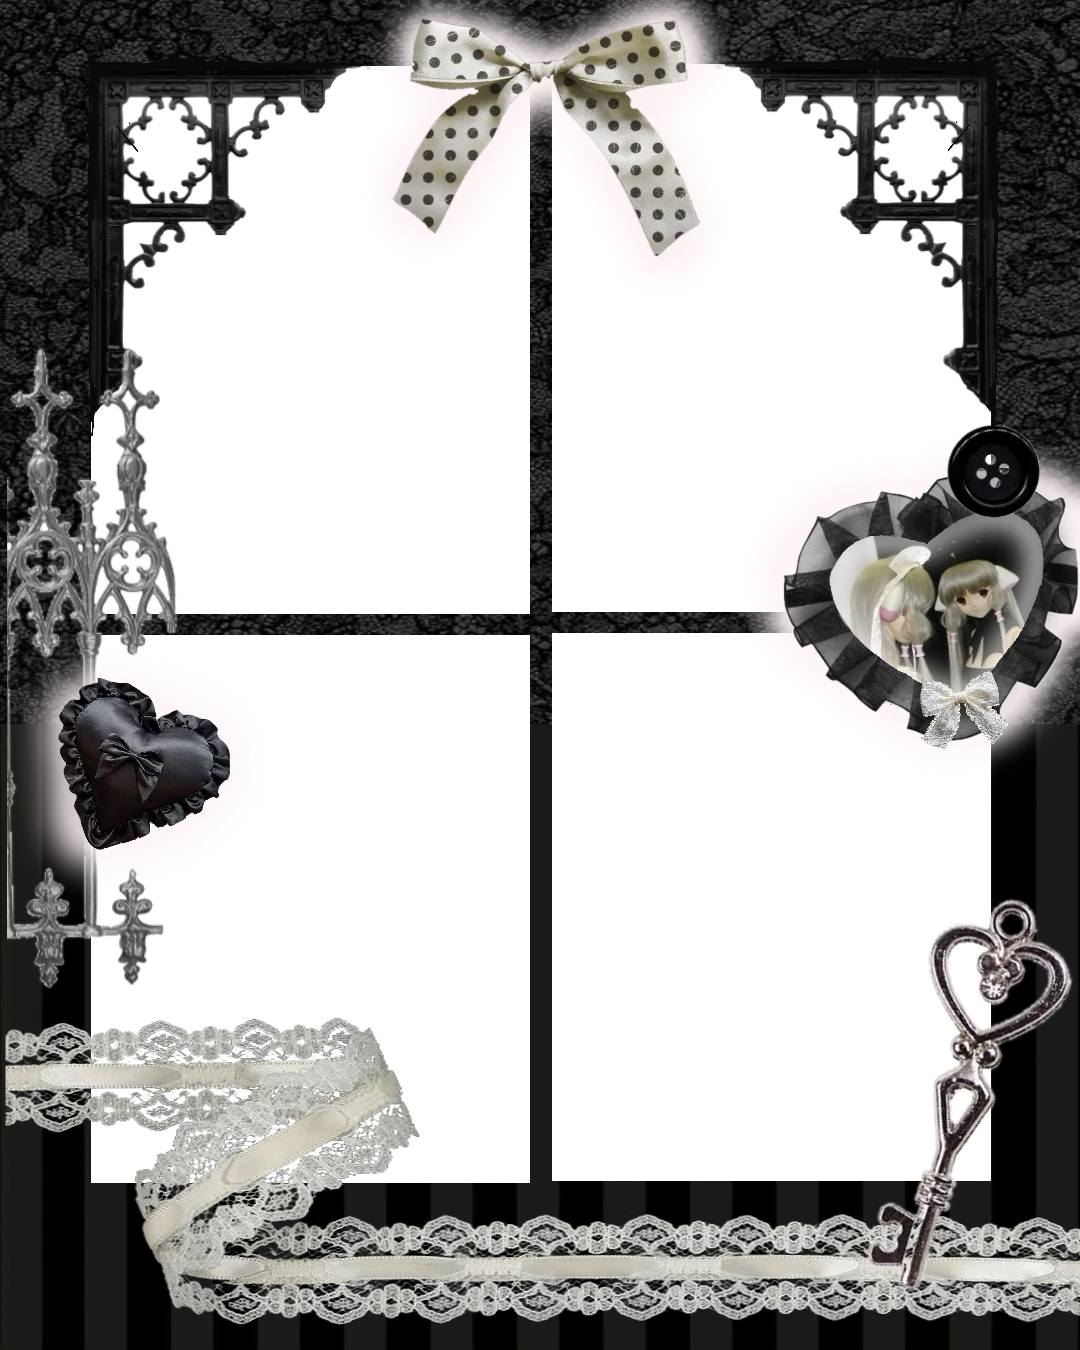
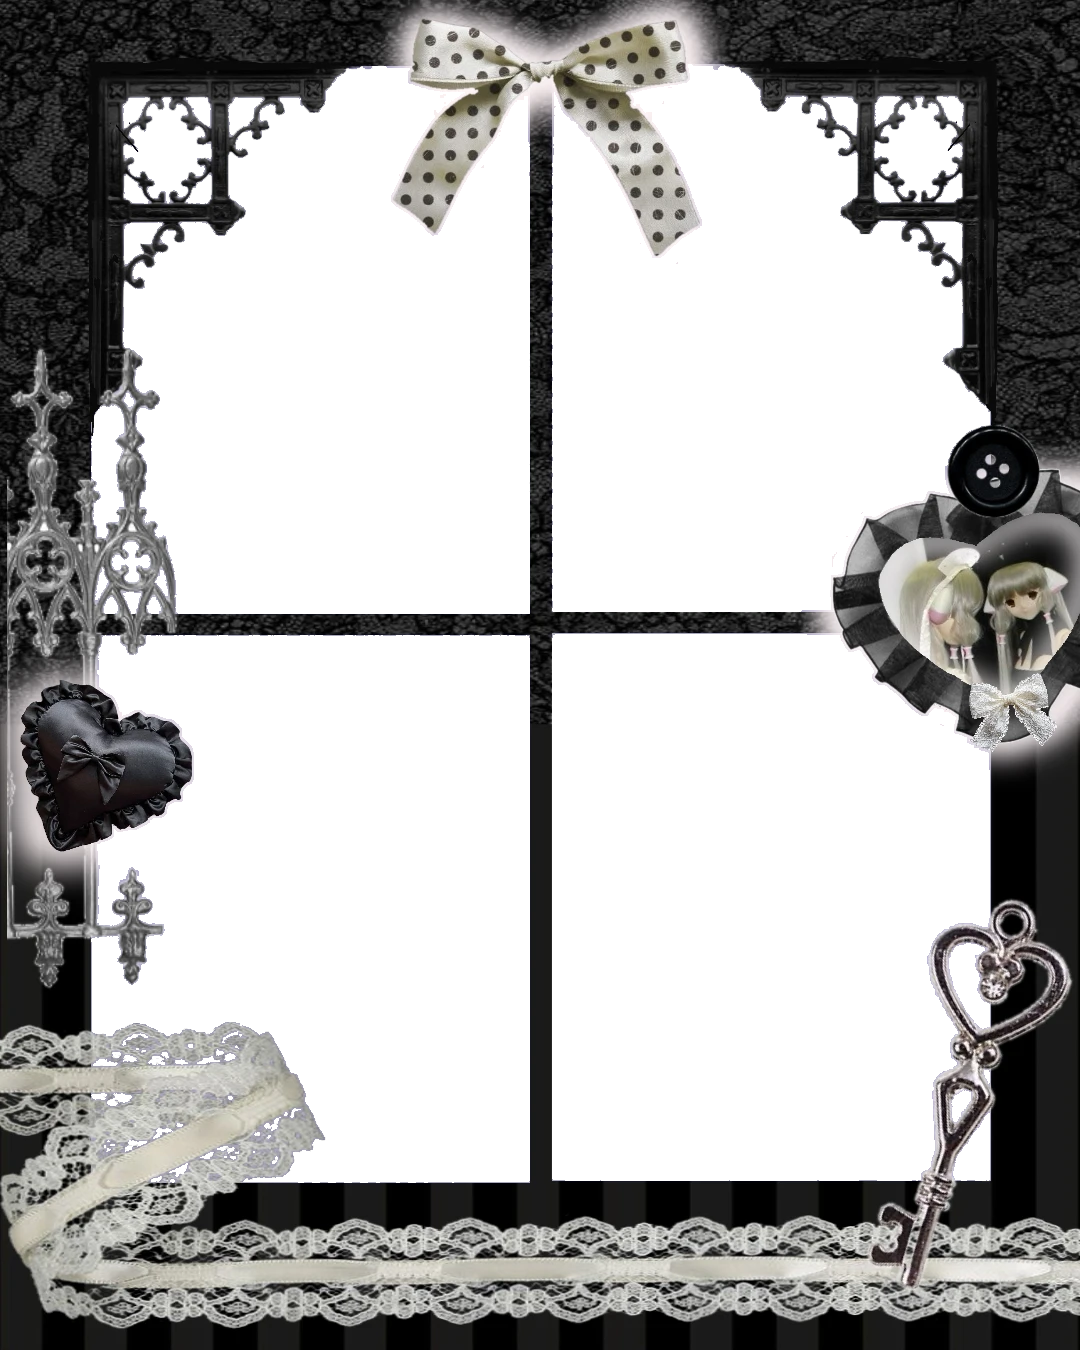
Add Feathered Lullaby and Biscuit Waltz frames; update Locked Lattice
Rebuild transparency for all three designer frames from their purple
exports: smooth white glows fade over the photos, soft 1px edges are kept,
and textured objects (ruffles, fur, lace) stay solid. The two new frames
replace the placeholders on the wheel, and cards now fade before wrapping
round the back so a small wheel never pops.

Claude-Session: https://claude.ai/code/session_01KAexMXHLSvYcFqbcQGgrYH

Changed region(s): [[0.0, 0.7467, 1.0, 0.9956], [0.7028, 0.3111, 1.0, 0.5911], [0.0, 0.4667, 0.2139, 0.6533]]

diff --git a/js/frames.js b/js/frames.js
@@ -40,29 +40,29 @@ window.KB = window.KB || {};
       lace: '#efe9f2', ink: '#efe9f2', sub: '#b7afc0', line: '#c9c3d3',
       slotA: '#26222c', slotB: '#100e13',
     },
-    two: {
-      name: 'Untitled II', tagline: 'a placeholder, waiting for its lace', overlay: 'frames/theme-2.png', placeholder: true,
-      bio: 'An empty frame for now. Save your design as frames/theme-2.png and it takes this place.',
-      sweetness: 3, gloom: 3, mood: 'to be decided', motifs: 'yours to choose',
-      bg: '#24101f', pattern: 'damask', pc: 'rgba(227,169,192,.1)',
-      lace: '#f2d3e0', ink: '#f6dbe8', sub: '#d79ab4', line: '#e3a9c0',
-      slotA: '#45213a', slotB: '#1a0b16',
+    lullaby: {
+      name: 'Feathered Lullaby', tagline: 'hush now, little lamb', overlay: 'frames/theme-2.png', footer: false,
+      bio: 'White ruffled curtains tied back with silver ribbon. An angel has left a wing at the sill, a rocking horse waits by the window, and a sleepy lamb keeps watch over a cherub who cried herself to sleep.',
+      cv: 'you ♡',
+      sweetness: 5, gloom: 2,
+      mood: 'soft, sleepy, a little sad',
+      motifs: 'angel wings · pearls · ruffles · rocking horse',
+      look: { filter: 'faded', intensity: 0.6 },
+      bg: '#f4f2f2', pattern: 'dots', pc: 'rgba(27,20,32,.06)',
+      lace: '#ffffff', ink: '#3a3a40', sub: '#8d8c91', line: '#c9c8cc',
+      slotA: '#e6e4e6', slotB: '#cfcdd2',
     },
-    three: {
-      name: 'Untitled III', tagline: 'a placeholder, waiting for its lace', overlay: 'frames/theme-3.png', placeholder: true,
-      bio: 'An empty frame for now. Save your design as frames/theme-3.png and it takes this place.',
-      sweetness: 3, gloom: 3, mood: 'to be decided', motifs: 'yours to choose',
-      bg: '#f4f0f2', pattern: 'dots', pc: 'rgba(27,20,32,.07)',
-      lace: '#1b1420', ink: '#1b1420', sub: '#6d6178', line: '#1b1420',
-      slotA: '#e4dee6', slotB: '#c9c0cf',
-    },
-    four: {
-      name: 'Untitled IV', tagline: 'a placeholder, waiting for its lace', overlay: 'frames/theme-4.png', placeholder: true,
-      bio: 'An empty frame for now. Save your design as frames/theme-4.png and it takes this place.',
-      sweetness: 3, gloom: 3, mood: 'to be decided', motifs: 'yours to choose',
-      bg: '#15142c', pattern: 'stars', pc: 'rgba(214,214,255,.16)',
-      lace: '#dcd8ff', ink: '#e8e5ff', sub: '#a9a6dc', line: '#b4b8ef',
-      slotA: '#2c2a52', slotB: '#100f22',
+    biscuit: {
+      name: 'Biscuit Waltz', tagline: 'tea at four, music at five', overlay: 'frames/theme-3.png', footer: false,
+      bio: 'Pastel plaid and pearl-strung windows. Butter biscuits and wafer rolls, whipped cream on a silver fork, and a little audience of woodland friends waiting for the music to start.',
+      cv: 'you ♡',
+      sweetness: 5, gloom: 1,
+      mood: 'sweet, cozy, playful',
+      motifs: 'biscuits · cream · music notes · pearls',
+      look: { filter: 'digicam', intensity: 0.6 },
+      bg: '#efe6e6', pattern: 'dots', pc: 'rgba(90,60,50,.07)',
+      lace: '#ffffff', ink: '#5a3d31', sub: '#9c8378', line: '#d9c6c2',
+      slotA: '#f2e8e6', slotB: '#dccbc6',
     },
     // A clean border with no art, in black or white (picked with `tone`)
     plain: {

diff --git a/js/app.js b/js/app.js
@@ -177,7 +177,8 @@
       const rot = Math.max(-55, Math.min(55, -off * 40));
       const z = -Math.min(a, 2.5) * 160;
       const scale = 1 - Math.min(a, 2) * 0.08;
-      const opacity = Math.max(0, Math.min(1, 1.9 - a));
+      // fade out before a card wraps round the back, however few frames there are
+      const opacity = Math.max(0, Math.min(1, 1.9 - a, (N / 2 - a) * 2.5));
       b.style.transform = `translateX(${x.toFixed(2)}px) translateZ(${z.toFixed(1)}px) rotateY(${rot.toFixed(2)}deg) scale(${scale.toFixed(3)})`;
       b.style.opacity = opacity.toFixed(3);
       b.style.zIndex = String(100 - Math.round(a * 10));

diff --git a/README.md b/README.md
@@ -5,7 +5,7 @@ A dark gothic lolita photobooth that runs in your browser: think a misty 2000s s
 ## How it works
 
 1. **Title screen**: press START (or hit Enter) for the menu: New Session, How to Play and Credits.
-2. **Select Frame** (`#/themes`): a gliding wheel of frames you drag, flick, scroll or turn with the arrows, Plain Black / Plain White underneath it, plus a character-profile card for each frame, with sweetness & gloom ratings, mood, motifs and a one-tap "pairs with" look (*Locked Lattice* and three placeholders waiting for your designs). Every print is a 1080×1350 Instagram post (4:5) with four photos, two on top and two on the bottom.
+2. **Select Frame** (`#/themes`): a gliding wheel of frames you drag, flick, scroll or turn with the arrows, Plain Black / Plain White underneath it, plus a character-profile card for each frame, with sweetness & gloom ratings, mood, motifs and a one-tap "pairs with" look (*Locked Lattice*, *Feathered Lullaby* and *Biscuit Waltz*). Every print is a 1080×1350 Instagram post (4:5) with four photos, two on top and two on the bottom.
 3. **Shoot** (`#/booth`): through a camera viewfinder with a focus ring, shot counter and live clock. choose a filter (Natural, Digicam, Faded, Monochrome or Pixel), its intensity, and a timer, then strike four poses.
    Tap a thumbnail to retake just that one, or upload photos instead of using the camera.
 4. **Print** (`#/result`): switch frame, filter or intensity, write a caption, add an orange digicam date stamp, add stickers

diff --git a/frames/README.md b/frames/README.md
@@ -1,6 +1,6 @@
 # Theme frames
 
-Frames live in this folder. **Locked Lattice** is `theme-1.png`. *Untitled II–IV* are placeholders that switch to your art as soon as `theme-2.png`, `theme-3.png` or `theme-4.png` exists here.
+Frames live in this folder: **Locked Lattice** (`theme-1.png`), **Feathered Lullaby** (`theme-2.png`) and **Biscuit Waltz** (`theme-3.png`).
 Every print is an **Instagram portrait post: 1080 × 1350 px (4:5)**, with four 4:5 photos in a 2×2 grid.
 
 ## Making a frame
